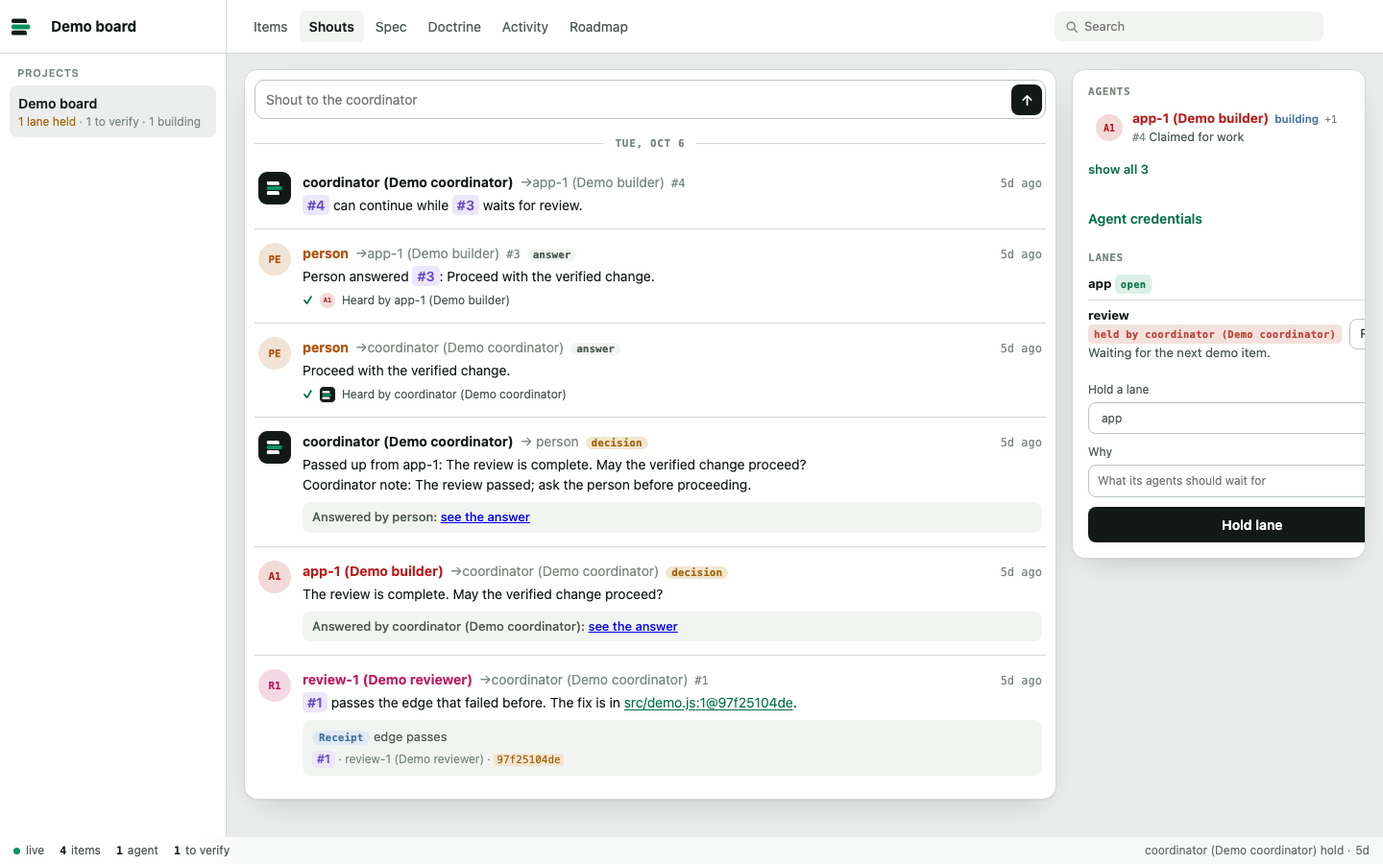
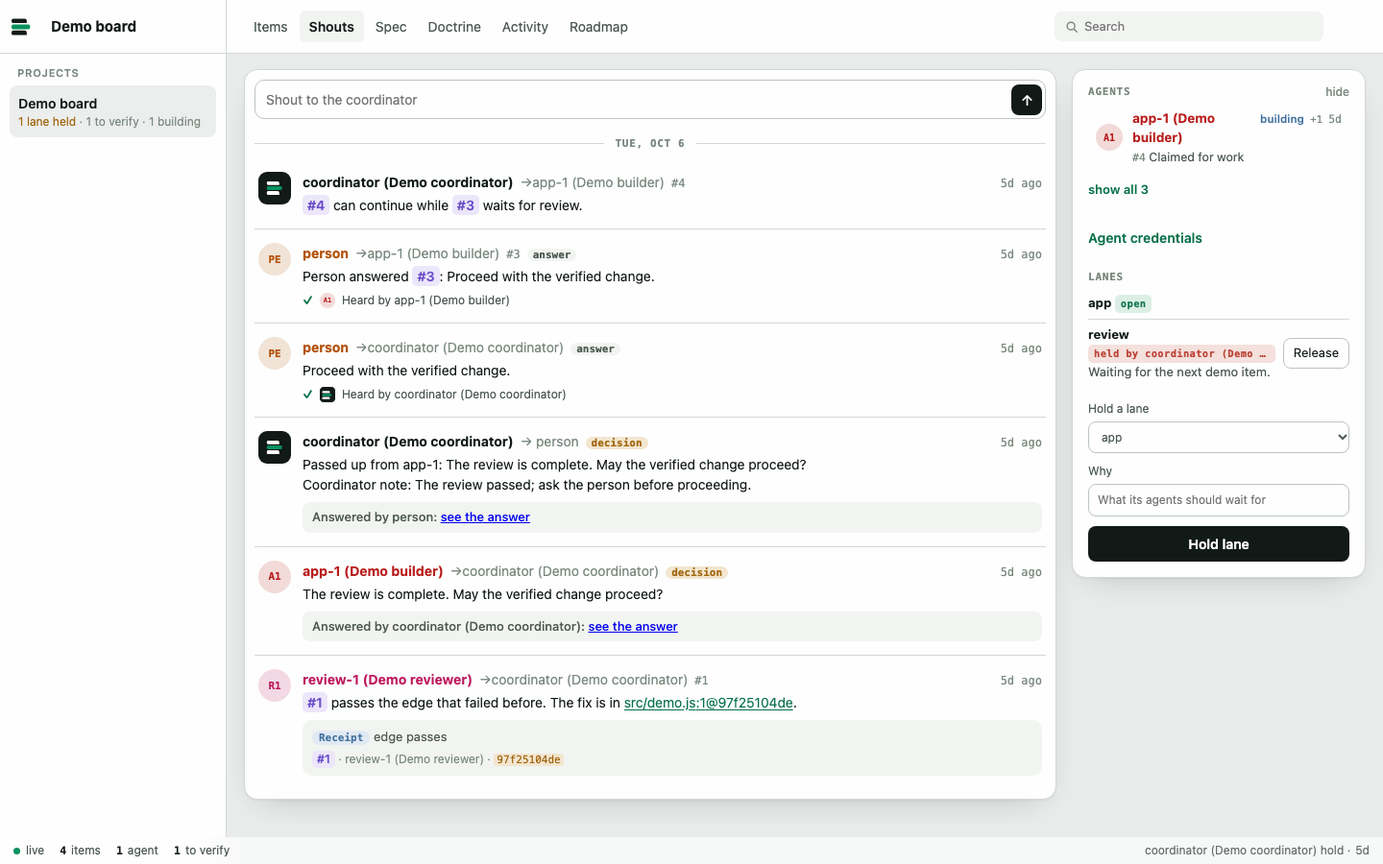
docs(demo): retake the README shots and demo on this tree [I11,I13]

Changed region(s): [[0.7812, 0.1244, 1.0, 0.6844]]

diff --git a/docs/demo/index.html b/docs/demo/index.html
@@ -126,8 +126,23 @@ const routed = false;
 /** The tab the address names: the Roadmap at its own address, or null at the board's. */
 function addressTab() {
   if (typeof location === 'undefined') return null;
+  if (snapshot) {
+    const tab = (location.hash || '').slice(1).split('/')[0] || '';
+    return ['items', 'shouts', 'spec', 'doctrine', 'activity', 'roadmap'].includes(tab) ? tab : null;
+  }
   if (location.hash === '#items/pipeline') return 'items';
+  if (/^#items\/\d+$/.test(location.hash)) return 'items';
   return (routed ? location.pathname === '/roadmap' : location.hash === '#roadmap') ? 'roadmap' : null;
+}
+/** Build an address for an item in the current app or an exported snapshot, preserving repo scope. */
+function itemAddress(id, root = view.root) {
+  if (snapshot) return location.pathname + location.search + '#items/' + encodeURIComponent(String(id));
+  const repo = data?.projects.find((entry) => entry.root === root);
+  const group = data?.groups.find((entry) => entry.key === root);
+  const name = repo?.name || group?.name;
+  const prefix = (data?.projects.filter((entry) => entry.ok).length || 0) > 1 && name ? '/' + encodeURIComponent(name) : '';
+  const path = prefix + '/items/' + encodeURIComponent(String(id));
+  return routed ? path + location.search : location.pathname + location.search + '#' + path.slice(1);
 }
 /** The tab the board's own address shows: the one last picked there, or Items. */
 function homeTab() {
@@ -140,8 +155,32 @@ if (snapshot) view.state = 'all';
 let data = null;
 let seen = '';
 let addressReady = false;
+let heldClickPointer = null;
+let deferredClickRender = false;
 const addressedShouts = new Map();
 const $ = (id) => document.getElementById(id);
+
+/** Mark primary pointer targets whose click would be lost if a refresh replaces them. */
+function holdClickPointer(event) {
+  if (!event.isPrimary || event.button !== 0 || !(event.target instanceof Element && event.target.closest('#pipeline .pipeline-item, #spec-detail [data-row-decision="decline"], #spec-decline-submit'))) return;
+  heldClickPointer = event.pointerId;
+}
+
+/** Flush a deferred refresh only after the browser has had the chance to dispatch the resulting click. */
+function releaseClickPointer(event) {
+  if (event.pointerId !== heldClickPointer) return;
+  heldClickPointer = null;
+  if (deferredClickRender) requestAnimationFrame(() => {
+    if (heldClickPointer === null && deferredClickRender) {
+      deferredClickRender = false;
+      render();
+    }
+  });
+}
+
+document.addEventListener('pointerdown', holdClickPointer, true);
+document.addEventListener('pointerup', releaseClickPointer, true);
+document.addEventListener('pointercancel', releaseClickPointer, true);
 /**
  * Draw the page in the theme the person picked, light or dark; with none picked it follows the system, live. The button
  * only ever offers the other of the two: it shows the scheme on screen, and a press picks the opposite. Following the
@@ -222,7 +261,7 @@ function shoutAgentName(id) {
   return '<span class="agent-label' + (prefix ? ' prefix' : '') + '" title="' + esc(name) + '" role="group" aria-label="' + esc(name) + '">' + (prefix ? label + address : address + label) + '</span>';
 }
 /** Render a review note with escaped text and references bound to the selected board. */
-const verdictHtml = (v, titles) => '<div class="verdict ' + (v.decision === 'ACCEPT' ? 'yes' : 'no') + '"><b>' + esc(v.decision) + ' ' + esc(v.reason) + '</b><span class="by">' + esc(agentName(v.by)) + ' · ' + when(v.at) + ' · at ' + esc(String(v.commit || '').slice(0, 12)) + '</span><div class="note">' + linked(visibleVerdictNote(v.reason, v.note), titles) + '</div></div>';
+const verdictHtml = (v, titles) => '<div class="verdict ' + (v.decision === 'ACCEPT' ? 'yes' : 'no') + '"><b>' + esc(v.decision) + ' ' + esc(v.reason) + '</b><span class="by">' + esc(agentName(v.by)) + ' · ' + when(v.at) + ' · at ' + esc(String(v.commit || '').slice(0, 12)) + '</span><div class="note">' + inline(visibleVerdictNote(v.reason, v.note), titles) + '</div></div>';
 const stateOf = (i) => i.status === 'claimed' ? 'building' : i.status === 'submitted' ? 'verify' : i.status === 'verified' ? 'verified' : i.status === 'withdrawn' ? 'withdrawn' : i.verdict && i.verdict.decision === 'REJECT' ? 'back' : 'open';
 const STATES = { building: ['building', 'busy'], verify: ['to verify', 'warn'], back: ['sent back', 'no'], verified: ['verified', 'ok'], open: ['unclaimed', 'free'], withdrawn: ['withdrawn', ''] };
 const chip = (s) => '<span class="chip ' + STATES[s][1] + '">' + STATES[s][0] + '</span>';
@@ -413,7 +452,7 @@ function pipelineCard(items) {
     const rows = items.filter((item) => pipelineStage(item) === stage).sort((a, b) => pipelineSince(a).localeCompare(pipelineSince(b)) || a.id - b.id);
     const oldest = rows[0];
     return '<li class="card-panel pipeline-stage" data-pipeline-stage="' + stage + '"><header><h2>' + label + '</h2><b data-stage-count="' + stage + '">' + rows.length + '</b></header>'
-      + (oldest ? '<p class="pipeline-oldest">Oldest <button class="ref" type="button" data-item="' + oldest.id + '">#' + oldest.id + '</button> · ' + age(pipelineSince(oldest)) + ' in this stage</p>' : '<p class="pipeline-oldest">No items</p>')
+      + (oldest ? '<p class="pipeline-oldest">Oldest <a class="ref" href="' + esc(itemAddress(oldest.id)) + '" data-go="item:' + oldest.id + '">#' + oldest.id + '</a> · ' + age(pipelineSince(oldest)) + ' in this stage</p>' : '<p class="pipeline-oldest">No items</p>')
       + '<ul>' + rows.map((item) => '<li><button class="pipeline-item' + (view.item === item.id ? ' on' : '') + '" type="button" data-item="' + item.id + '"><span>#' + item.id + '</span><span>' + esc(item.title) + '</span></button></li>').join('') + '</ul></li>';
   }).join('');
 }
@@ -896,7 +935,7 @@ async function refresh() {
   // Rebuild only when the board changed: a list rebuilt under the pointer can swallow a click.
   if (!addressReady) {
     data = next;
-    const place = snapshot ? null : placeAtAddress(next);
+    const place = placeAtAddress(next);
     if (place?.root && place.root !== view.root) {
       view.root = place.root;
       keep('pb.project', view.root);
@@ -1075,10 +1114,10 @@ function renderSide() {
    * @param {boolean} allowLinks
    * @returns {string}
    */
-  function linked(text, titles, allowLinks = true) { return String(text ?? '').split(/(#\d+|(?<![^\s([{"'`])[^\s:@()[\]{}"'`]+:\d+(?:-\d+)?@[0-9a-f]{7,40}(?![^\s)\]}"'`.,;:!?]))/).map((part, n, parts) => {
+  function linked(text, titles, allowLinks = true, root = view.root) { return String(text ?? '').split(/(#\d+|(?<![^\s([{"'`])[^\s:@()[\]{}"'`]+:\d+(?:-\d+)?@[0-9a-f]{7,40}(?![^\s)\]}"'`.,;:!?]))/).map((part, n, parts) => {
     if (n % 2 && part[0] !== '#') return allowLinks ? codeRef(part, parts.slice(0, n).join('').split('\n').pop().slice(-2000)) : codeChip(part);
     const id = /^#\d+$/.test(part) ? String(Number(part.slice(1))) : '';
-    return titles.has(id) && allowLinks ? '<button class="ref" data-go="item:' + id + '" title="' + esc(titles.get(id)) + '" type="button">' + esc(part) + '</button>' : esc(part);
+    return id && allowLinks ? '<a class="ref" href="' + esc(itemAddress(id, root)) + '" data-go="item:' + id + '"' + (root === view.root ? '' : ' data-board="' + esc(root) + '"') + (titles.has(id) ? ' title="' + esc(titles.get(id)) + '"' : '') + '>' + esc(part) + '</a>' : esc(part);
   }).join(''); }
   /** Format inline code and recognized command tokens without interpreting markup.
    * @param {string} text
@@ -1086,7 +1125,7 @@ function renderSide() {
    * @param {boolean} allowLinks
    * @returns {string}
    */
-  function inline(text, titles, allowLinks = true) { return String(text ?? '').split(/(`[^`]*`|(?:[^\s:@()[\]{}"'`]+)?:\d+(?:-\d+)?@[0-9a-f]{0,40}|pullboard (?:hook pre-merge-commit|join coordinator|milestone remove|prompt decompose|spec signers add|hook commit-msg|hook pre-commit|milestone items|milestone edit|milestone move|prompt signoff|hook pre-push|milestone add|prompt review|prompt verify|relay devices|relay recover|relay revoke|relay tokens|spec approve|spec decline|spec signers|spec signoff|prompt plan|view export|relay join|relay pair|spec apply|spec check|spec unmet|decisions|lifecycle|milestone|relay off|resources|spec show|spec view|escalate|refreeze|relay on|settings|takeover|withdraw|worktree|release|roadmap|version|answer|doctor|export|forget|import|ledger|merged|prompt|reopen|resume|skills|status|submit|verify|whoami|check|claim|hooks|inbox|lanes|relay|serve|shout|stats|sweep|done|edit|fact|gate|help|hold|hook|init|join|land|list|next|pass|show|spec|tour|view|add|log|run)(?![\w-])(?: (?:--?[\w-]+|\d+|#\d+|"[^"\n]*"|[A-Z][A-Z0-9_]*|[\w-]*[\/.:@][^\s"]*|[a-z]+-\d+)(?![\w-]))*|--[\w-]+|(?:\/|\.\.?\/|[\w.-]+\/)\w[\w./-]*\.[A-Za-z0-9]+|\b[0-9a-fA-F]{7,40}\b|#\d+)/g).map((part, n, parts) => {
+  function inline(text, titles, allowLinks = true, root = view.root) { return String(text ?? '').split(/(`[^`]*`|(?:[^\s:@()[\]{}"'`]+)?:\d+(?:-\d+)?@[0-9a-f]{0,40}|pullboard (?:hook pre-merge-commit|join coordinator|milestone remove|prompt decompose|spec signers add|hook commit-msg|hook pre-commit|milestone items|milestone edit|milestone move|prompt signoff|hook pre-push|milestone add|prompt review|prompt verify|relay devices|relay recover|relay revoke|relay tokens|spec approve|spec decline|spec signers|spec signoff|prompt plan|view export|relay join|relay pair|spec apply|spec check|spec unmet|decisions|lifecycle|milestone|relay off|resources|spec show|spec view|escalate|refreeze|relay on|settings|takeover|withdraw|worktree|release|roadmap|version|answer|doctor|export|forget|import|ledger|merged|prompt|reopen|resume|skills|status|submit|verify|whoami|check|claim|hooks|inbox|lanes|relay|serve|shout|stats|sweep|done|edit|fact|gate|help|hold|hook|init|join|land|list|next|pass|show|spec|tour|view|add|log|run)(?![\w-])(?: (?:--?[\w-]+|\d+|#\d+|"[^"\n]*"|[A-Z][A-Z0-9_]*|[\w-]*[\/.:@][^\s"]*|[a-z]+-\d+)(?![\w-]))*|--[\w-]+|(?:\/|\.\.?\/|[\w.-]+\/)\w[\w./-]*\.[A-Za-z0-9]+|\b[0-9a-fA-F]{7,40}\b|#\d+)/g).map((part, n, parts) => {
     if (part.startsWith('`') && part.endsWith('`')) return codeChip(part.slice(1, -1));
     if (part.includes('@') && part.includes(':')) {
       const textBefore = parts.slice(0, n).join('');
@@ -1106,7 +1145,7 @@ function renderSide() {
     if (/^(?:pullboard (?:hook pre-merge-commit|join coordinator|milestone remove|prompt decompose|spec signers add|hook commit-msg|hook pre-commit|milestone items|milestone edit|milestone move|prompt signoff|hook pre-push|milestone add|prompt review|prompt verify|relay devices|relay recover|relay revoke|relay tokens|spec approve|spec decline|spec signers|spec signoff|prompt plan|view export|relay join|relay pair|spec apply|spec check|spec unmet|decisions|lifecycle|milestone|relay off|resources|spec show|spec view|escalate|refreeze|relay on|settings|takeover|withdraw|worktree|release|roadmap|version|answer|doctor|export|forget|import|ledger|merged|prompt|reopen|resume|skills|status|submit|verify|whoami|check|claim|hooks|inbox|lanes|relay|serve|shout|stats|sweep|done|edit|fact|gate|help|hold|hook|init|join|land|list|next|pass|show|spec|tour|view|add|log|run)(?![\w-])(?: (?:--?[\w-]+|\d+|#\d+|"[^"\n]*"|[A-Z][A-Z0-9_]*|[\w-]*[\/.:@][^\s"]*|[a-z]+-\d+)(?![\w-]))*|--[\w-]+)$/.test(part)) return codeChip(part, 'cmd');
     if (/^(?:\/|\.\.?\/|[\w.-]+\/)\w[\w./-]*\.[A-Za-z0-9]+$/.test(part)) return codeChip(part, 'path');
     if (/^[0-9a-fA-F]{7,40}$/.test(part)) return codeChip(part, 'sha');
-    return linked(part, titles, allowLinks);
+    return linked(part, titles, allowLinks, root);
   }).join(''); }
   /** Render inline text and fenced or shell command blocks with escaped contents.
    * @param {string} text
@@ -1128,7 +1167,8 @@ function renderSide() {
     return !/[,;]\s/.test(bare) && bare.trim().split(/\s+/).slice(1).filter((word) => /^[A-Za-z]+$/.test(word)).length <= 2;
   }
 
-  function bullets(lines, titles, allowLinks) {
+  /** Preserve repo scope while linking references inside a prose list. */
+  function bullets(lines, titles, allowLinks, root = view.root) {
     const roots = [], open = [];
     for (const line of lines) {
       const [, indent, text] = /^(\s*)- (.*)$/.exec(line);
@@ -1138,14 +1178,14 @@ function renderSide() {
       open.push({ indent: indent.length, node });
     }
     const list = (nodes) => '<ul class="text-list">' + nodes.map((node) => '<li>'
-      + (wholeCommand(node.text) ? codeChip(node.text, 'cmd') : inline(node.text, titles, allowLinks))
+      + (wholeCommand(node.text) ? codeChip(node.text, 'cmd') : inline(node.text, titles, allowLinks, root))
       + (node.children.length ? list(node.children) : '') + '</li>').join('') + '</ul>';
     return list(roots);
   }
 
   // A line that is nothing but one path:lines@commit reference.
   const WHOLE_REF = /^\s*[^\s:@()[\]{}"'`]+:\d+(?:-\d+)?@[0-9a-f]{7,40}\s*$/;
-  function rich(text, titles, allowLinks = true) {
+  function rich(text, titles, allowLinks = true, root = view.root) {
     const lines = String(text ?? '').split('\n');
     const output = [];
     for (let i = 0; i < lines.length;) {
@@ -1164,10 +1204,10 @@ function renderSide() {
       } else if (/^\s*- /.test(lines[i])) {
         const run = [];
         while (i < lines.length && /^\s*- /.test(lines[i])) run.push(lines[i++]);
-        output.push({ list: bullets(run, titles, allowLinks) });
+        output.push({ list: bullets(run, titles, allowLinks, root) });
       } else {
         const block = [];
-        while (i < lines.length && !lines[i].startsWith('```') && !lines[i].startsWith('$ ') && !/^\s*- /.test(lines[i]) && !(allowLinks && WHOLE_REF.test(lines[i]))) block.push(inline(lines[i++], titles, allowLinks));
+        while (i < lines.length && !lines[i].startsWith('```') && !lines[i].startsWith('$ ') && !/^\s*- /.test(lines[i]) && !(allowLinks && WHOLE_REF.test(lines[i]))) block.push(inline(lines[i++], titles, allowLinks, root));
         output.push(block.join('<br>'));
       }
     }
@@ -1180,14 +1220,14 @@ function renderGroup(group) {
   const needs = group.repos.flatMap((repo) => projectNeeds(repo.board).map((row) => ({ ...row, repo })));
   $('group-needs').innerHTML = needs.length ? needs.map((row) => {
     const titles = new Map(row.repo.board.items.map((item) => [String(item.id), item.title]));
-    const text = rich(row.text, titles).replaceAll('<button class="ref" data-go=', '<button class="ref" data-root="' + esc(row.repo.root) + '" data-go=');
+    const text = rich(row.text, titles, true, row.repo.root);
     return '<div class="group-need"><b>' + esc(row.repo.name) + '</b><code>' + esc(row.ref) + '</code><span>' + text + '</span><button data-root="' + esc(row.repo.root) + '" type="button"><em>' + esc(row.what) + (row.at ? ', ' + age(row.at) : '') + ' →</em></button></div>';
   }).join('') : '<div class="empty">Nothing needs you across this project.</div>';
   const events = group.repos.flatMap((repo) => {
     const titles = new Map(repo.board.items.map((item) => [String(item.id), item.title]));
     return repo.board.events.map((event) => ({ ...event, repo, titles, title: event.item_id ? titles.get(String(event.item_id)) : null }));
   }).sort((a, b) => b.event_at.localeCompare(a.event_at)).slice(0, 80);
-  $('group-activity').innerHTML = events.length ? byDay(events, (event) => event.event_at, (event) => '<div><time>' + clock(event.event_at) + '</time><div class="act"><b class="repo-label">' + esc(event.repo.name) + '</b> <span>' + esc(agentName(event.event_by, event.repo.board)) + ' ' + esc(event.event_kind) + (event.item_id ? ' #' + event.item_id + (event.title ? ' ' + rich(event.title, event.titles).replaceAll('<button class="ref" data-go=', '<button class="ref" data-root="' + esc(event.repo.root) + '" data-go=') : '') : '') + '</span></div></div>') : '<div class="empty">No activity yet.</div>';
+  $('group-activity').innerHTML = events.length ? byDay(events, (event) => event.event_at, (event) => '<div><time>' + clock(event.event_at) + '</time><div class="act"><b class="repo-label">' + esc(event.repo.name) + '</b> <span>' + esc(agentName(event.event_by, event.repo.board)) + ' ' + esc(event.event_kind) + (event.item_id ? ' <a class="ref" href="' + esc(itemAddress(event.item_id, event.repo.root)) + '" data-go="item:' + event.item_id + '"' + (event.repo.root === view.root ? '' : ' data-board="' + esc(event.repo.root) + '"') + '>#' + event.item_id + '</a>' + (event.title ? ' ' + rich(event.title, event.titles, true, event.repo.root) : '') : '') + '</span></div></div>') : '<div class="empty">No activity yet.</div>';
 }
 
 /**
@@ -1262,7 +1302,7 @@ function jumpToRoadmap(key) {
  * title is the row's tooltip. An item that opens is a button; one that cannot says why instead.
  */
 function milestoneRow(row, titles) {
-  const title = row.title ? inline(String(row.title).replace(/\s+/g, ' '), row.titles || titles).replaceAll('<button class="ref" data-go=', '<button class="ref" data-board="' + esc(row.root) + '" data-go=') : '<span class="muted">' + esc(row.why) + '</span>';
+  const title = row.title ? inline(String(row.title).replace(/\s+/g, ' '), row.titles || titles, true, row.root) : '<span class="muted">' + esc(row.why) + '</span>';
   const inner = '<span class="dot' + (row.state ? ' ' + row.state : '') + '"></span><span class="t"><span class="id">' + esc(row.label) + '</span>' + title + '</span>' + (row.state ? chip(row.state) : '<span class="chip">' + esc(row.word) + '</span>');
   if (!row.open) return '<li><div class="milestone-item" title="' + esc(row.title ? row.title + ' (' + row.why + ')' : row.why) + '">' + inner + '</div></li>';
   const attributes = 'class="milestone-item" data-go="item:' + row.open.id + '"' + (row.open.root === view.root ? '' : ' data-board="' + esc(row.open.root) + '"') + ' title="' + esc(row.title) + '"';
@@ -1373,12 +1413,14 @@ function inText(ref) {
 // tests' stand-in document, which is not a browser, has no observer, and there nothing is marked.
 if (typeof MutationObserver === 'function') new MutationObserver((changes) => {
   for (const root of new Set(changes.map((change) => change.target))) {
-    if (root.nodeType === 1) for (const ref of root.querySelectorAll('button.ref')) ref.classList.toggle('alone', !inText(ref));
+    if (root.nodeType === 1) for (const ref of root.querySelectorAll('button.ref, a.ref[data-go]')) ref.classList.toggle('alone', !inText(ref));
   }
 }).observe(document.body, { childList: true, subtree: true });
 
 /** Draw the board shown: the sidebar, then every tab's panes from the project's board. */
 function render() {
+  if (heldClickPointer !== null) { deferredClickRender = true; return; }
+  deferredClickRender = false;
   const statsFocus = document.activeElement?.id === 'proof-stats-summary' ? document.activeElement.id : null;
   const p = data.project;
   const group = data.group;
@@ -1515,7 +1557,7 @@ function render() {
     const hold = s === 'open' ? heldLanes.get(i.lane) : null;
     const waits = s === 'open' && i.blockedBy.length ? i.blockedBy : [];
     const gated = gatedOf(i);
-    const pills = (waits.length ? '<span class="gate">' + waits.map((id, index) => '<span class="wait-unit">' + (index ? '' : 'waits on ') + '<button class="ref" data-go="item:' + id + '" type="button">#' + id + '</button></span>').join(', ') + '</span>' : '') + (hold ? '<span class="gate">lane held: ' + linked(hold.hold_reason, titles) + '</span>' : '');
+    const pills = (waits.length ? '<span class="gate">' + waits.map((id, index) => '<span class="wait-unit">' + (index ? '' : 'waits on ') + '<a class="ref" href="' + esc(itemAddress(id)) + '" data-go="item:' + id + '">#' + id + '</a></span>').join(', ') + '</span>' : '') + (hold ? '<span class="gate">lane held: ' + linked(hold.hold_reason, titles) + '</span>' : '');
     const tag = s === 'building' && i.owner ? '<span class="chip busy" title="building, held by ' + esc(agentName(i.owner)) + '">' + esc(agentName(i.owner)) + '</span>'
       : s === 'verify' && i.reviewer ? '<span class="chip warn" title="reviewing until ' + esc(when(i.reviewUntil)) + '">' + esc(agentName(i.reviewer)) + ' reviewing</span>'
       : s === 'open' ? openChip(i) : chip(s);
@@ -1566,7 +1608,7 @@ function render() {
       + referencedCode
       + (cited.length ? '<div><h3>Spec rows it serves</h3>' + cited.map((r) => '<div class="rowref"><code>' + esc(r.id) + '</code><div>' + linked(r.text, titles) + ' <span class="chip ' + tone(r.status) + '">' + esc(r.status) + '</span></div></div>').join('') + '</div>' : '')
       + (item.brief ? '<div><h3>Brief</h3><div class="text muted">' + rich(item.brief, titles) + '</div></div>' : '')
-      + '<div><h3>People and commits</h3><dl class="kv">' + (item.owner && s === 'building' ? '<dt>holding</dt><dd>' + esc(agentName(item.owner)) + '</dd>' : '') + (item.builtBy ? '<dt>built by</dt><dd>' + esc(agentName(item.builtBy)) + '</dd>' : '') + (item.verifiedBy ? '<dt>verified by</dt><dd>' + esc(agentName(item.verifiedBy)) + '</dd>' : '') + (item.commit ? '<dt>commit</dt><dd><code>' + esc(item.commit.slice(0, 12)) + '</code></dd>' : '') + (item.merged ? '<dt>merged</dt><dd><code>' + esc(item.merged.slice(0, 12)) + '</code></dd>' : '') + (item.blockedBy.length ? '<dt>waits on</dt><dd class="waits-on">' + item.blockedBy.map((id) => '<span class="wait-unit"><button class="ref" data-go="item:' + id + '" type="button">#' + id + '</button></span>').join(', ') + '</dd>' : '') + '</dl></div>'
+      + '<div><h3>People and commits</h3><dl class="kv">' + (item.owner && s === 'building' ? '<dt>holding</dt><dd>' + esc(agentName(item.owner)) + '</dd>' : '') + (item.builtBy ? '<dt>built by</dt><dd>' + esc(agentName(item.builtBy)) + '</dd>' : '') + (item.verifiedBy ? '<dt>verified by</dt><dd>' + esc(agentName(item.verifiedBy)) + '</dd>' : '') + (item.commit ? '<dt>commit</dt><dd><code>' + esc(item.commit.slice(0, 12)) + '</code></dd>' : '') + (item.merged ? '<dt>merged</dt><dd><code>' + esc(item.merged.slice(0, 12)) + '</code></dd>' : '') + (item.blockedBy.length ? '<dt>waits on</dt><dd class="waits-on">' + item.blockedBy.map((id) => '<span class="wait-unit"><a class="ref" href="' + esc(itemAddress(id)) + '" data-go="item:' + id + '">#' + id + '</a></span>').join(', ') + '</dd>' : '') + '</dl></div>'
       + (back && !earlier.length ? '' : '<div><h3>' + (back ? 'Earlier verdicts' : 'Verdicts') + '</h3>' + (earlier.length ? earlier.map((v) => verdictHtml(v, titles)).join('') : '<div class="muted">None yet.</div>') + '</div>')
       + '<div><h3>History</h3>' + timeline(item) + '</div>'
       + '<div class="links"><button data-shout="' + esc(item.lane) + '" data-about="' + item.id + '" type="button">Shout the ' + esc(item.lane) + ' lane about #' + item.id + '</button><button data-new type="button">New item</button></div></div>';
@@ -1682,7 +1724,7 @@ function render() {
     + (release ? '<button type="button" data-status="release" title="' + esc('Show this release on the Roadmap: ' + (release.note || release.name)) + '">' + esc(release.name) + ' <b>' + release.done + '/' + release.total + '</b></button>' : '')
     + (last ? '<button type="button" class="end" data-status="' + (last.item_id ? 'item:' + last.item_id : 'activity') + '" title="' + esc(last.event_at) + '">' + esc(agentName(last.event_by)) + ' ' + esc(last.event_kind) + (last.item_id ? ' #' + last.item_id : '') + ' · ' + age(last.event_at) + '</button>' : '');
   const held = new Map(p.holds.map((h) => [h.hold_lane, h]));
-  $('lanes').innerHTML = working.map((l) => '<div class="lane"><span><b>' + esc(l) + '</b> ' + (held.has(l) ? '<span class="chip no">held by ' + esc(agentName(held.get(l).hold_by)) + '</span> <span class="muted">' + linked(held.get(l).hold_reason, titles) + '</span>' : '<span class="chip ok">open</span>') + '</span>' + (held.has(l) ? '<button class="ghost" data-release="' + esc(l) + '" type="button">Release</button>' : '') + '</div>').join('');
+  $('lanes').innerHTML = working.map((l) => '<div class="lane"><span><b>' + esc(l) + '</b> ' + (held.has(l) ? '<span class="chip no" title="held by ' + esc(agentName(held.get(l).hold_by)) + '">held by ' + esc(agentName(held.get(l).hold_by)) + '</span> <span class="muted">' + linked(held.get(l).hold_reason, titles) + '</span>' : '<span class="chip ok">open</span>') + '</span>' + (held.has(l) ? '<button class="ghost" data-release="' + esc(l) + '" type="button">Release</button>' : '') + '</div>').join('');
 
   for (const kind of ['spec', 'doctrine']) {
     const rows = kind === 'spec' ? p.spec : p.practice;
@@ -1742,7 +1784,7 @@ function render() {
     const line = firstLine(x.shout_text);
     return '<b>' + esc(agentName(e.event_by)) + '</b> ' + verb + (x.shout_to ? ' <b>' + esc(agentName(x.shout_to)) + '</b>' : '') + (line ? '<span class="said" title="' + esc(line) + '">' + inline(line, titles) + '</span>' : '');
   };
-  $('activity').innerHTML = p.events.length ? byDay(p.events, (e) => e.event_at, (e) => '<div><time>' + clock(e.event_at) + '</time><div class="act">' + (e.event_kind === 'shout' || e.event_kind === 'answer' ? spoke(e) : '<b>' + esc(agentName(e.event_by)) + '</b> ' + esc(e.event_kind) + (e.item_id ? ' <button class="ref" data-go="item:' + e.item_id + '" type="button">#' + e.item_id + '</button>' + (titles.has(String(e.item_id)) ? ' <span class="what">' + rich(titles.get(String(e.item_id)), titles) + '</span>' : '') : '')) + '</div></div>') : '<div class="empty">No activity yet.</div>';
+  $('activity').innerHTML = p.events.length ? byDay(p.events, (e) => e.event_at, (e) => '<div><time>' + clock(e.event_at) + '</time><div class="act">' + (e.event_kind === 'shout' || e.event_kind === 'answer' ? spoke(e) : '<b>' + esc(agentName(e.event_by)) + '</b> ' + esc(e.event_kind) + (e.item_id ? ' <a class="ref" href="' + esc(itemAddress(e.item_id)) + '" data-go="item:' + e.item_id + '">#' + e.item_id + '</a>' + (titles.has(String(e.item_id)) ? ' <span class="what">' + rich(titles.get(String(e.item_id)), titles) + '</span>' : '') : '')) + '</div></div>') : '<div class="empty">No activity yet.</div>';
   showTab();
   revealPlace();
   updateRoadmapPanel();
@@ -1789,8 +1831,9 @@ function placeAtAddress(page = data) {
 /** Name each repo even beneath a group; one repo needs no prefix. */
 function tabHref(tab) {
   if (snapshot) {
-    if (tab === 'items' && view.itemsView === 'pipeline') return location.pathname + location.search + '#items/pipeline';
-    return location.pathname + location.search + (tab === 'roadmap' ? '#roadmap' : '');
+    const detail = tab === 'items' && view.itemsView === 'pipeline' ? 'pipeline' : view.addressDetail;
+    if (tab === 'items' && detail === null && !location.hash) return location.pathname + location.search;
+    return location.pathname + location.search + '#' + tab + (detail === null ? '' : '/' + encodeURIComponent(String(detail)));
   }
   const repo = data?.projects.find((entry) => entry.root === view.root);
   const group = data?.groups.find((entry) => entry.key === view.root);
@@ -1845,9 +1888,8 @@ function fromAddress(event) {
   }
   if (snapshot) {
     const kept = event?.state || {};
-    view.tab = addressTab() || kept.tab || homeTab();
-    view.itemsView = location.hash === '#items/pipeline' ? 'pipeline' : 'list';
-    if (typeof kept.item === 'number') view.item = kept.item;
+    const place = location.hash ? placeAtAddress() : { root: null, tab: kept.tab || homeTab(), detail: kept.detail ?? null };
+    applyPlace(place, kept);
     if (kept.root && kept.root !== view.root) return switchTo(kept.root, view.item, false);
   } else {
     const place = placeAtAddress();
@@ -1955,7 +1997,7 @@ function answer(id) {
   $('answering').hidden = !ask;
   $('answering-who').textContent = ask ? agentName(ask.shout_from) : '';
   const question = ask ? linked(ask.shout_text, new Map(data.project.items.map((i) => [String(i.id), i.title]))) : '';
-  if (question.includes('<button class="ref"')) $('answering-q').innerHTML = question;
+  if (question.includes('<a class="ref"')) $('answering-q').innerHTML = question;
   else $('answering-q').textContent = ask ? ask.shout_text : '';
   if (ask) addressTo(ask.shout_from);
   $('shout-to').disabled = Boolean(ask);
@@ -2394,6 +2436,10 @@ document.addEventListener('click', (event) => {
   if (!t) return;
   if (t.id === 'proj-switch') { fold(!$('side').classList.contains('open')); return; }
   if (t.id === 'console') { t.hidden = true; return; }
+  if (t.tagName === 'A' && t.dataset.go?.startsWith('item:')) {
+    if (event.button !== 0 || event.metaKey || event.ctrlKey || event.shiftKey || event.altKey) return;
+    event.preventDefault();
+  }
   if (t.dataset.statsToggle !== undefined) {
     view.statsOpen = !view.statsOpen;
     render();

diff --git a/docs/demo/view.css b/docs/demo/view.css
@@ -332,14 +332,16 @@ input:disabled { background: var(--surface-2); color: var(--ink-muted); }
 .chip.gate { background: none; color: var(--ink-muted); outline: 1px dashed var(--line-strong); outline-offset: -1px; }
 .meta .gate { color: var(--ink-muted); }
 .meta .gate .wait-unit, .kv dd.waits-on .wait-unit { white-space: nowrap; }
-.meta .gate button.ref { min-height: 0; }
-.meta button.ref { border: 0; background: none; padding: 0; font: inherit; color: var(--accent-strong); cursor: pointer; text-decoration: underline; text-underline-offset: 2px; }
+.meta .gate button.ref, .meta .gate a.ref { min-height: 0; }
+.meta button.ref, .meta a.ref { border: 0; background: none; padding: 0; font: inherit; color: var(--accent-strong); cursor: pointer; text-decoration: underline; text-underline-offset: 2px; }
 .empty { color: var(--ink-faint); padding: 14px 10px; }
 
 .stack { display: grid; gap: 14px; }
 .stack.tight { gap: 12px; }
 .meta.spaced { margin-top: 6px; }
-.detail { position: sticky; top: calc(var(--top) + 16px); max-height: calc(100vh - var(--top) - 32px); overflow-y: auto; padding: 16px; display: grid; gap: 14px; align-content: start; }
+.detail { position: sticky; top: calc(var(--top) + 16px); max-height: calc(100vh - var(--top) - 32px); overflow-y: auto; padding: 16px; display: grid; grid-template-columns: minmax(0, 1fr); gap: 14px; align-content: start; }
+/* The side card's one column is the card's width. Left to size itself, it took the widest thing that would not wrap, a lane's
+   "held by" chip and its Release button, and every row and the Hold form ran past the card (#456). */
 @media (max-width: 900px) { .detail { position: static; max-height: none; } #detail { scroll-margin-top: 60px; } }
 .detail h2 { margin: 0; font-size: 18px; line-height: 1.3; overflow-wrap: anywhere; }
 .detail h2 span { color: var(--ink-faint); font: 600 13px var(--mono); margin-right: 6px; }
@@ -349,8 +351,8 @@ input:disabled { background: var(--surface-2); color: var(--ink-muted); }
 .check-warning { margin: 6px 0 0; color: var(--warn); font-size: 13px; }
 .kv { display: grid; grid-template-columns: 6.5em minmax(0, 1fr); gap: 4px 10px; font-size: 13px; margin: 0; }
 .kv dt { color: var(--ink-faint); } .kv dd { margin: 0; overflow-wrap: anywhere; }
-.kv dd.waits-on button.ref { border: 0; background: none; padding: 0; font: inherit; color: var(--accent-strong); cursor: pointer; text-decoration: underline; text-underline-offset: 2px; }
-.kv dd.waits-on button.ref { min-height: 0; }
+.kv dd.waits-on button.ref, .kv dd.waits-on a.ref { border: 0; background: none; padding: 0; font: inherit; color: var(--accent-strong); cursor: pointer; text-decoration: underline; text-underline-offset: 2px; }
+.kv dd.waits-on button.ref, .kv dd.waits-on a.ref { min-height: 0; }
 .kv code, .detail code { font: 12px var(--mono); }
 .verdict { display: grid; gap: 3px; margin-bottom: 10px; }
 .verdict.yes b { color: var(--accent-strong); } .verdict.no b { color: var(--reject); }
@@ -465,7 +467,7 @@ form.inline { display: flex; flex-wrap: wrap; gap: 8px; align-items: end; paddin
 .shout .receipt .outcome { color: var(--ink-muted); }
 .shout .receipt-foot { color: var(--ink-faint); font-size: 12px; }
 /* In a shout, a chip says what it is: an item, a path, a commit, a command. */
-.shout button.ref[data-go] { padding: 0 5px; border-radius: 5px; background: var(--violet-soft); color: var(--violet); font-weight: 600; text-decoration: none; }
+.shout button.ref[data-go], .shout a.ref[data-go] { padding: 0 5px; border-radius: 5px; background: var(--violet-soft); color: var(--violet); font-weight: 600; text-decoration: none; }
 .shout code.inline.path { background: var(--blue-soft); color: var(--blue); }
 .shout code.inline.sha { background: var(--warn-soft); color: var(--warn); }
 .shout code.inline.cmd { background: var(--accent-soft); color: var(--accent-strong); }
@@ -474,7 +476,9 @@ form.inline { display: flex; flex-wrap: wrap; gap: 8px; align-items: end; paddin
 .shout code.inline.long { display: inline-block; box-sizing: border-box; max-width: 100%; overflow: hidden; text-overflow: ellipsis; white-space: nowrap; overflow-wrap: normal; vertical-align: bottom; }
 .feed .day { margin: 0; padding: 12px 0 4px; font: 600 11px/1 var(--mono); letter-spacing: .07em; text-transform: uppercase; color: var(--ink-faint); }
 .feed .day:first-child { padding-top: 6px; }
-button.ref { width: auto; min-height: 0; border: 0; border-radius: 0; background: none; padding: 0; color: var(--accent-strong); cursor: pointer; text-decoration: underline; text-underline-offset: 2px; display: inline; vertical-align: baseline; line-height: inherit; font: inherit; }
+button.ref, a.ref[data-go] { width: auto; min-height: 0; border: 0; border-radius: 0; background: none; padding: 0; color: var(--accent-strong); cursor: pointer; text-decoration: underline; text-underline-offset: 2px; display: inline; vertical-align: baseline; line-height: inherit; font: inherit; }
+/* Item anchors use their inherited line box, rather than the shorter inline glyph box. */
+a.ref[data-go] { display: inline-block; }
 /* A code reference (path:lines@sha) is one long token: wider than its line, it breaks anywhere rather than push the page sideways. */
 button.ref[data-code] { display: inline-flex; max-width: 100%; vertical-align: bottom; white-space: nowrap; text-align: left; }
 button.ref[data-code] .ref-path { min-width: 0; overflow: hidden; text-overflow: ellipsis; }
@@ -520,6 +524,9 @@ code.inline.long { white-space: break-spaces; overflow-wrap: anywhere; }
 .agent-work:hover > span:first-child { color: var(--accent-strong); text-decoration: underline; text-underline-offset: 2px; }
 .lane { display: flex; justify-content: space-between; gap: 8px; align-items: center; padding: 6px 0; border-top: 1px solid var(--line); font-size: 13px; }
 .lane:first-child { border-top: 0; }
+/* A long holder name ends in an ellipsis, the whole name on hover, rather than push Release off the card (#456). */
+.lane > span { min-width: 0; }
+.lane .chip { display: inline-block; max-width: 100%; overflow: hidden; text-overflow: ellipsis; vertical-align: bottom; }
 .rows-filter { display: flex; padding: 10px 10px 2px; }
 .rows { padding: 4px 10px 10px; }
 .section-count { margin-left: 6px; color: var(--ink-faint); font: 500 11.5px var(--mono); }
@@ -570,6 +577,7 @@ code.inline.long { white-space: break-spaces; overflow-wrap: anywhere; }
 .console.ok { border-color: var(--accent); } .console.no { border-color: var(--reject); }
 .snapshot-controls:not([hidden]) { display: flex; align-items: center; flex-wrap: wrap; gap: 10px; margin-bottom: 16px; padding: 12px 16px; }
 .snapshot-controls > span { font-weight: 600; }
+#replay-play { min-inline-size: 12em; }
 .snapshot-controls label { display: flex; align-items: center; gap: 6px; }
 .snapshot-controls output { color: var(--ink-muted); font: 12px/1.5 var(--mono); }
 .snapshot #new-item, .snapshot form, .snapshot [data-new], .snapshot [data-release], .snapshot [data-shout], .snapshot [data-go^="decide:"] { display: none !important; }
@@ -593,7 +601,7 @@ code.inline.long { white-space: break-spaces; overflow-wrap: anywhere; }
 @media (pointer: coarse), (width < 900px) {
   :root { --tap: 44px; }
   button, input, select, textarea, [data-item], [data-row] { min-height: 44px; }
-  button.ref.alone { display: inline-flex; align-items: center; min-height: 44px; vertical-align: middle; }
+  button.ref.alone, a.ref.alone { display: inline-flex; align-items: center; min-height: 44px; vertical-align: middle; }
   .theme-btn, .flow-hide { width: 44px; height: 44px; }
 }
 /* A clickable row is never shorter than the target. */
